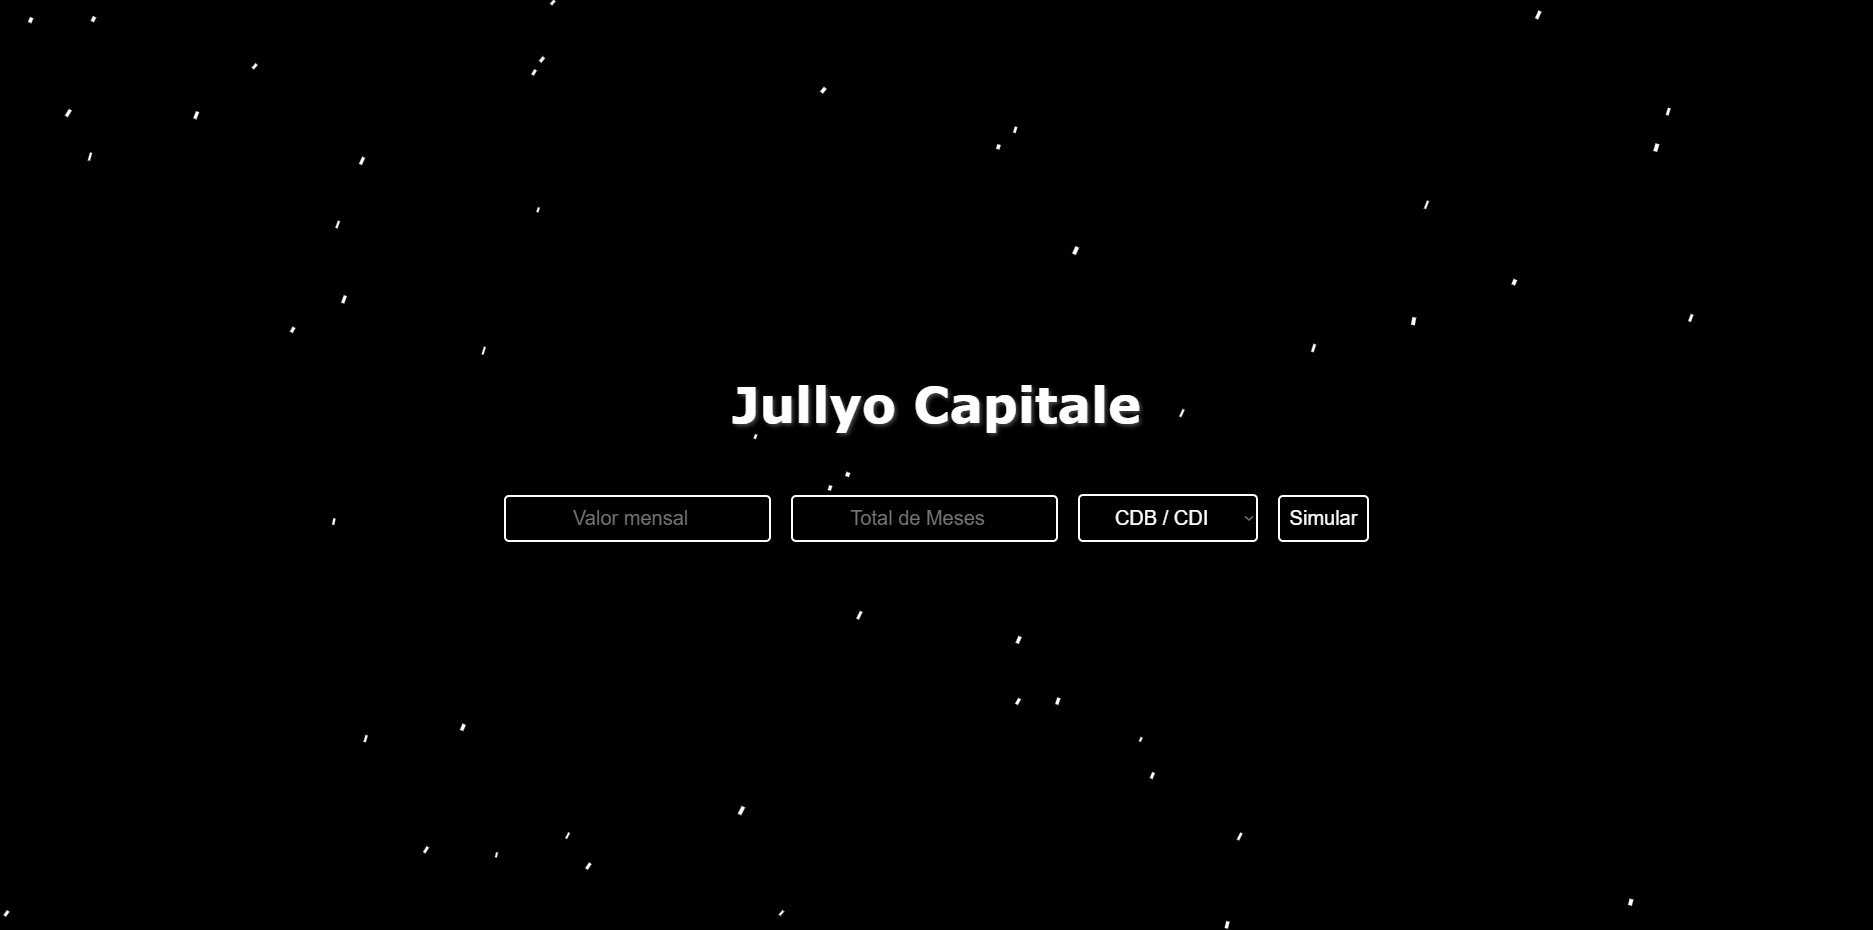
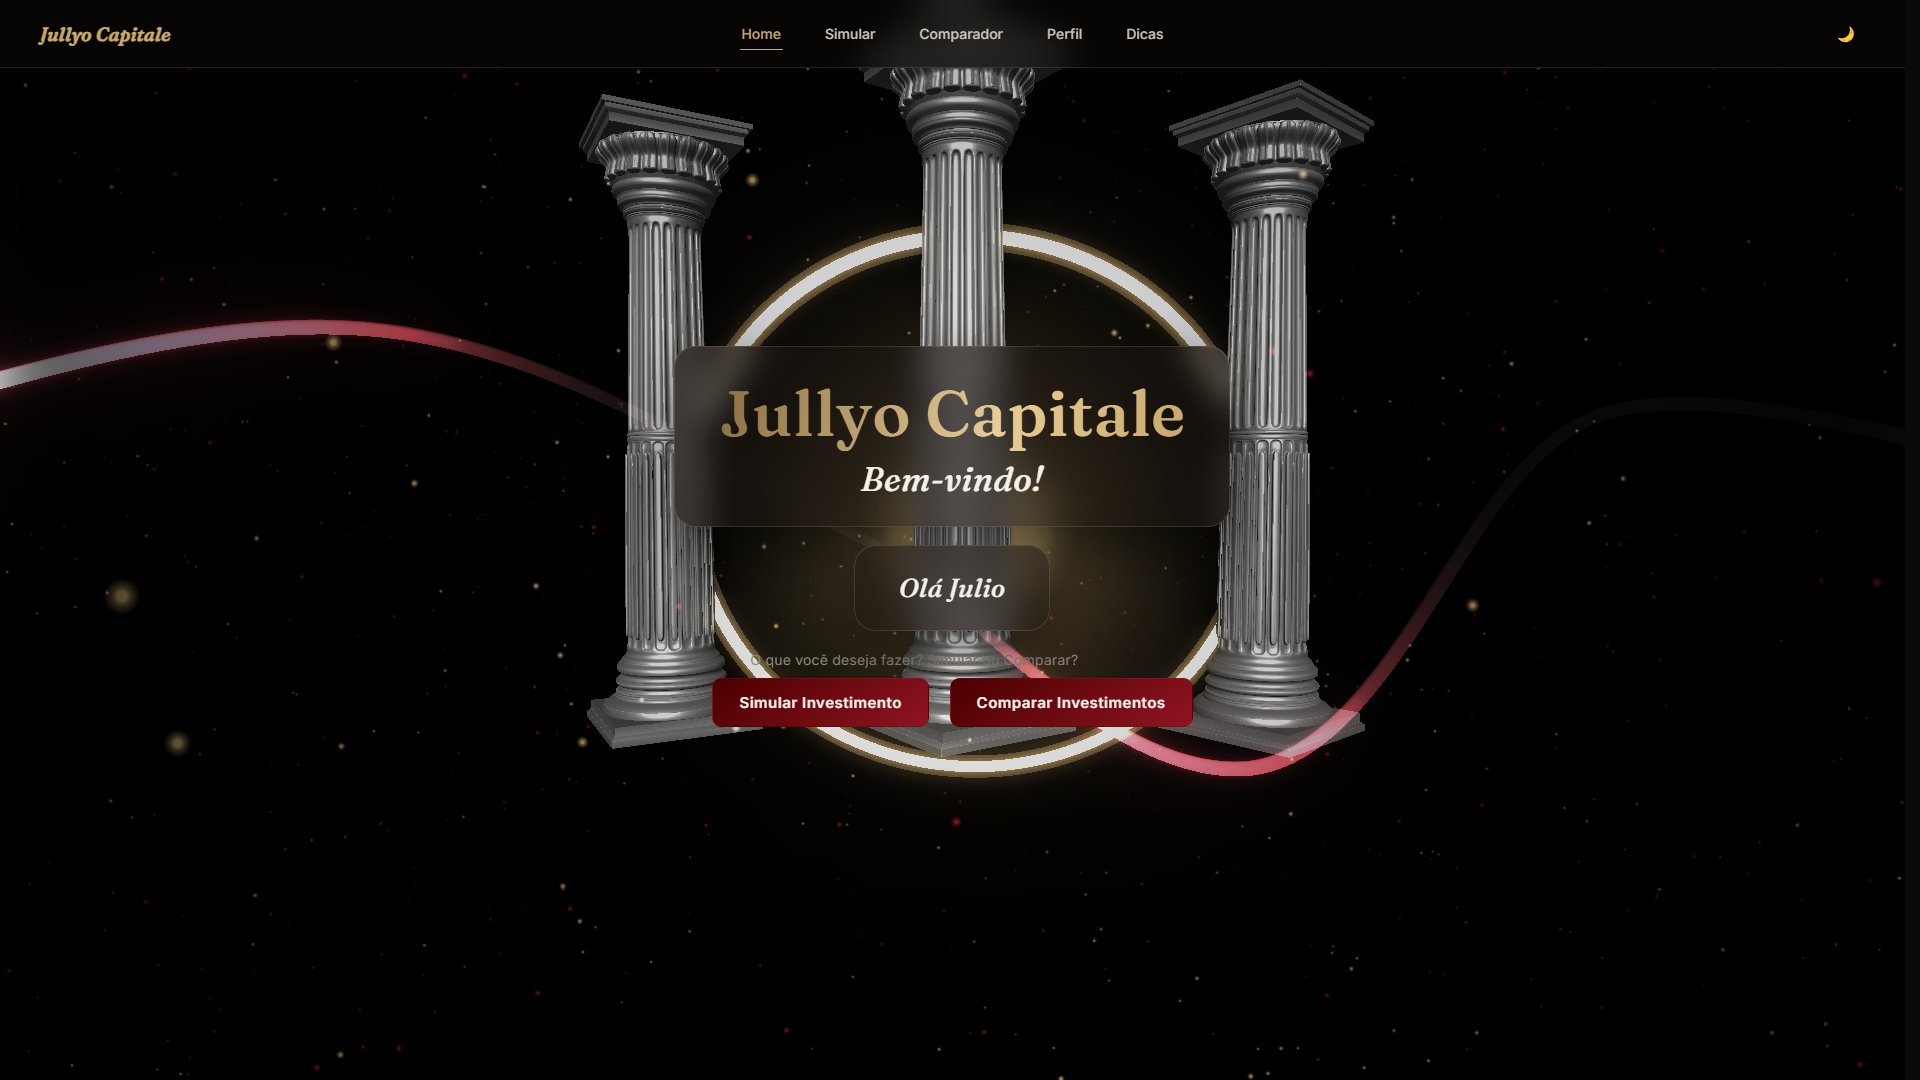
project images

diff --git a/index.html b/index.html
@@ -489,9 +489,9 @@
 
                 <div class="project_card" data-title="Por que ser católico?"
                     data-description="Um projeto escolar com base na disciplina de Desenvolvimento Web com o objetivo de criar uma página web interativa utilizando um framework do JavaScript."
-                    data-tech="HTML | CSS | JavaScript | React" data-link="">
+                    data-tech="HTML | CSS | JavaScript | React" data-link="https://github.com/Jullyoo/WhyBeCatholic">
 
-                    <img src="assets/images/png/em_desenvolvimento.png" alt="Catholic" class="project_card_img"
+                    <img src="assets/images/png/catholic.PNG" alt="Catholic" class="project_card_img"
                         loading="lazy">
                     <h3 class="project_card_tooltip">Por que ser Católico?</h3>
                 </div>
@@ -516,9 +516,9 @@
 
                 <div class="project_card" data-title="Santos e Signos"
                     data-description="Um projeto escolar com base na disciplina de Programação Web com o objetivo de criar uma página web interativa."
-                    data-tech="HTML | CSS | JavaScript | PHP" data-link="">
+                    data-tech="HTML | CSS | JavaScript | PHP" data-link="https://github.com/Jullyoo/Signos-Santos">
 
-                    <img src="assets/images/png/em_desenvolvimento.png" alt="Santos e Signos" class="project_card_img"
+                    <img src="assets/images/png/Signos_Santos.PNG" alt="Santos e Signos" class="project_card_img"
                         loading="lazy">
                     <h3 class="project_card_tooltip">Santos e Signos</h3>
                 </div>
